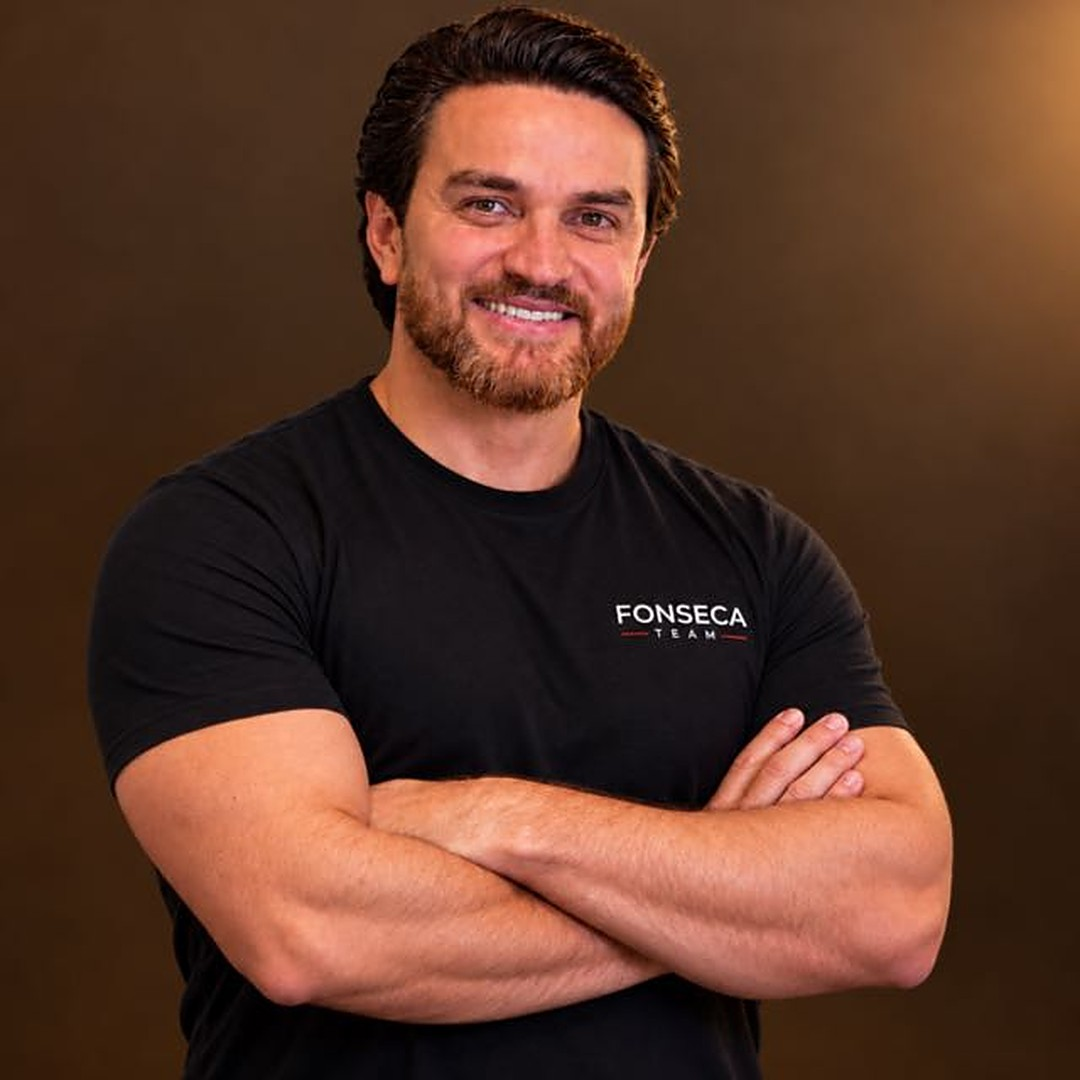
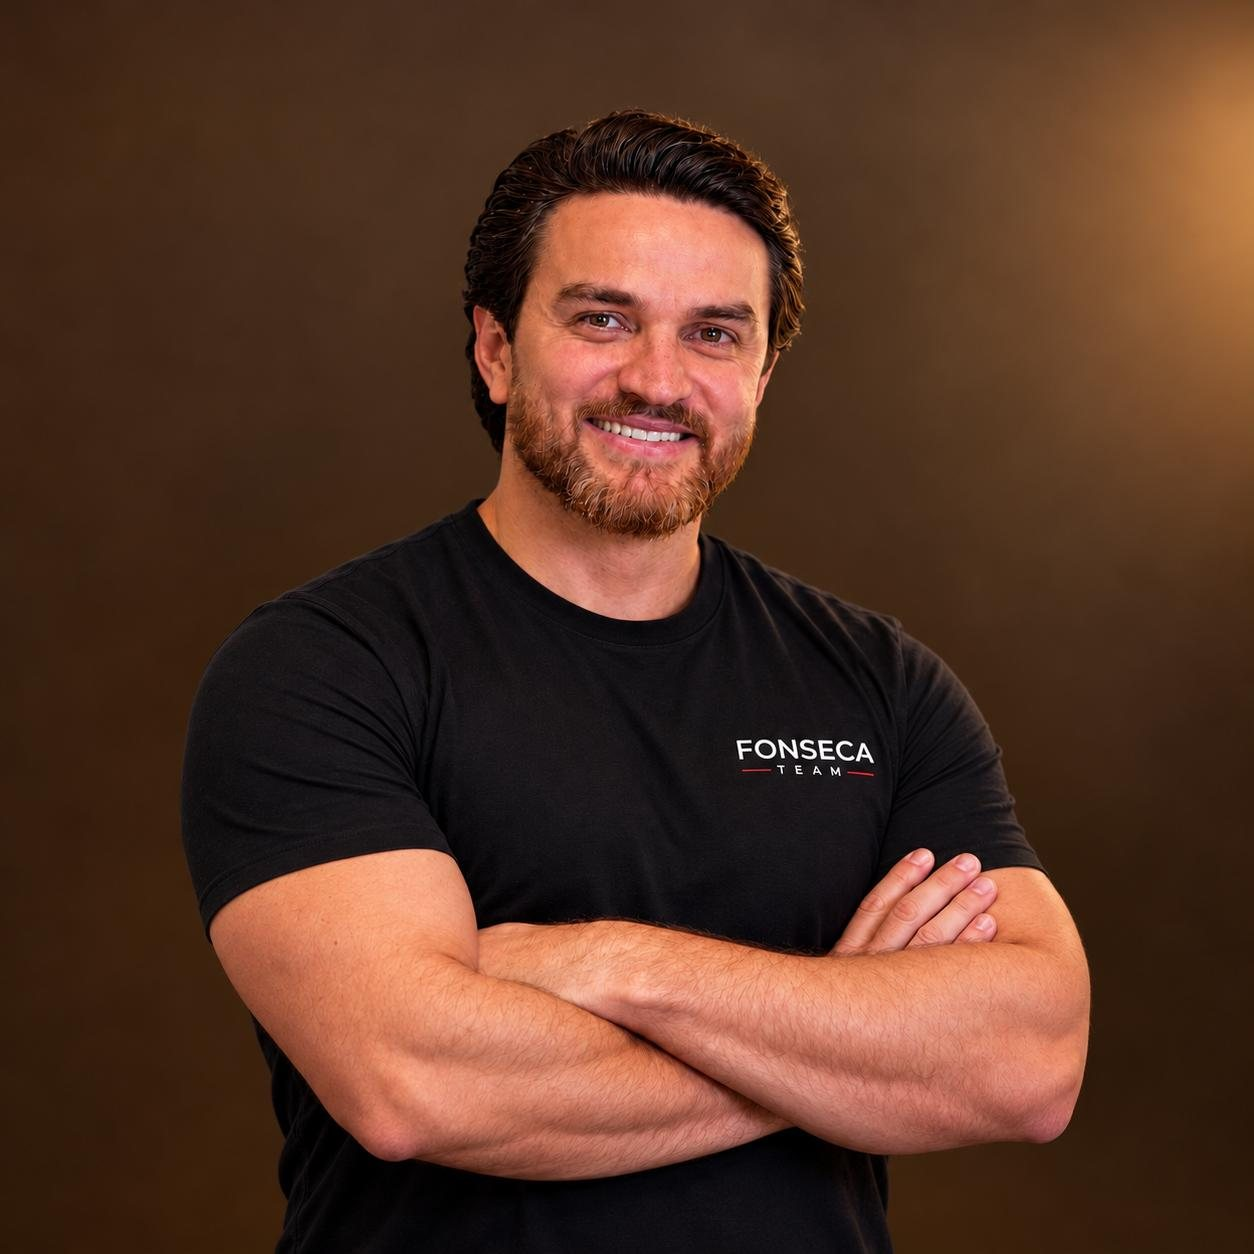
Use the new coach and training photos across the landing page
Studio portrait replaces coach.jpg (hero, chapter 7, og:image) and the
four training shots fill chapters 3-6 and the closing call to action,
each over a small blurred copy of itself on wide screens.

Claude-Session: https://claude.ai/code/session_01KDxtpuvKRh9LbipKp7MBFD

diff --git a/css/style.css b/css/style.css
@@ -155,33 +155,42 @@ html:not(.motion) .scroll-progress { display: none; }
 .media video.is-ready { opacity: 1; }
 .media__fallback { position: absolute; inset: 0; background-size: cover; background-position: center; }
 .media__fallback::before, .media__fallback::after { content: ""; position: absolute; }
-/* Foto do Maicon */
-.media__fallback--coach {
-  background: url("../assets/coach.jpg") right 6% center / auto 92% no-repeat,
-              radial-gradient(60% 70% at 78% 50%, rgba(222, 2, 19, .28), transparent 70%), #0b0606;
+/* Fotos do Maicon: a foto nítida fica à direita, sobre uma versão desfocada dela mesma */
+.media__fallback--photo { background: radial-gradient(60% 70% at 78% 50%, rgba(222, 2, 19, .22), transparent 70%), #0b0606; }
+.media__fallback--photo::before {
+  inset: 0; opacity: .38;
+  background: var(--blur) center / cover no-repeat;
 }
-.media__fallback--center { background-position: center 40%, center, center; background-size: auto 100%, cover, cover; }
+.media__fallback--photo::after {
+  top: 0; right: 6%; height: 100%; aspect-ratio: var(--ar);
+  background: var(--photo) center bottom / cover no-repeat;
+  -webkit-mask-image: linear-gradient(90deg, transparent 0, #000 14%, #000 82%, transparent 100%), linear-gradient(0deg, transparent 0, #000 18%);
+  -webkit-mask-composite: source-in; mask-image: linear-gradient(90deg, transparent 0, #000 14%, #000 82%, transparent 100%), linear-gradient(0deg, transparent 0, #000 18%);
+  mask-composite: intersect;
+}
+.media__fallback--center::after { right: auto; left: 50%; transform: translateX(-50%); }
+.media__fallback--coach { --photo: url("../assets/coach.jpg"); --blur: url("../assets/fotos/coach-fundo.jpg"); --ar: 1 / 1; }
+.media__fallback--postura { --photo: url("../assets/fotos/treino-postura.jpg"); --blur: url("../assets/fotos/treino-postura-fundo.jpg"); --ar: 740 / 1280; }
+.media__fallback--remada-costas { --photo: url("../assets/fotos/treino-remada-costas.jpg"); --blur: url("../assets/fotos/treino-remada-costas-fundo.jpg"); --ar: 726 / 1280; }
+.media__fallback--remada-lado { --photo: url("../assets/fotos/treino-remada-lado.jpg"); --blur: url("../assets/fotos/treino-remada-lado-fundo.jpg"); --ar: 730 / 1280; }
+.media__fallback--puxada { --photo: url("../assets/fotos/treino-puxada.jpg"); --blur: url("../assets/fotos/treino-puxada-fundo.jpg"); --ar: 743 / 1280; }
 /* Fundos da marca: faixas diagonais e número vazado */
-.media__fallback--1, .media__fallback--2, .media__fallback--4, .media__fallback--5, .media__fallback--6 {
+.media__fallback--1, .media__fallback--2 {
   background:
     radial-gradient(55% 60% at 80% 30%, rgba(222, 2, 19, .32), transparent 70%),
     repeating-linear-gradient(115deg, rgba(255, 255, 255, .03) 0 1px, transparent 1px 46px),
     linear-gradient(160deg, #120304 0%, #050505 70%);
 }
-.media__fallback--1::before, .media__fallback--2::before, .media__fallback--4::before, .media__fallback--5::before, .media__fallback--6::before {
+.media__fallback--1::before, .media__fallback--2::before {
   right: -10%; top: 22%; width: 70%; height: 64px; background: linear-gradient(90deg, transparent, rgba(222, 2, 19, .45)); transform: skewX(-38deg);
 }
-.media__fallback--1::after, .media__fallback--2::after, .media__fallback--4::after, .media__fallback--5::after, .media__fallback--6::after {
+.media__fallback--1::after, .media__fallback--2::after {
   right: 4%; bottom: 4%; font: italic 900 clamp(14rem, 38vw, 34rem)/.8 var(--font-display); color: transparent; -webkit-text-stroke: 2px rgba(222, 2, 19, .35);
 }
 .media__fallback--1::after { content: "01"; }
 .media__fallback--2::after { content: "02"; }
-.media__fallback--4::after { content: "04"; }
-.media__fallback--5::after { content: "05"; }
-.media__fallback--6::after { content: "06"; }
 .media__fallback--2::before { top: 58%; width: 55%; }
 .media__fallback.has-poster::before, .media__fallback.has-poster::after { display: none; }
-.media__fallback--5::before { top: 40%; }
 
 /* ---------- 4.2 Abertura ---------- */
 .hero { position: relative; min-height: 100vh; min-height: 100svh; display: flex; align-items: flex-end; padding: calc(var(--header-h) + 40px) 0 120px; isolation: isolate; }
@@ -491,7 +500,7 @@ html.lenis, html.lenis body { height: auto; }
   .footer__grid { grid-template-columns: 1fr 1fr; }
   .footer__grid > div:first-child { grid-column: 1 / -1; }
   .section { padding: 84px 0; }
-  .media__fallback--coach { background-position: 70% center, center, center; background-size: auto 80%, cover, cover; }
+  .media__fallback--photo::after { right: 0; }
   .story__nav { right: 12px; }
   .story__dots button { font-size: 0; gap: 0; }
 }
@@ -501,7 +510,8 @@ html.lenis, html.lenis body { height: auto; }
   .logo--footer img { height: 90px; }
   .hero { padding-bottom: 100px; }
   .hero__shade { background: linear-gradient(0deg, rgba(5, 5, 5, .98) 0%, rgba(5, 5, 5, .8) 55%, rgba(5, 5, 5, .35) 100%); }
-  .media__fallback--coach { background-position: center 12%, center, center; background-size: auto 62%, cover, cover; }
+  .media__fallback--photo::before { display: none; }
+  .media__fallback--photo::after { inset: 0; height: auto; aspect-ratio: auto; transform: none; background-position: center 20%; -webkit-mask-image: linear-gradient(0deg, transparent 0, #000 30%); mask-image: linear-gradient(0deg, transparent 0, #000 30%); }
   .hero__actions .btn { width: 100%; }
   .hero__facts { flex-wrap: nowrap; }
   .hero__facts li { flex: 1 1 0; min-width: 0; padding-right: 10px; margin-right: 10px; }
@@ -510,7 +520,7 @@ html.lenis, html.lenis body { height: auto; }
   .scroll-hint { display: none; }
   .plans { grid-template-columns: 1fr; }
   .chapter { padding: 110px 44px 110px 16px; }
-  .story__shade { background: linear-gradient(0deg, rgba(5, 5, 5, .95) 0%, rgba(5, 5, 5, .7) 60%, rgba(5, 5, 5, .5) 100%); }
+  .story__shade { background: linear-gradient(0deg, rgba(5, 5, 5, .95) 0%, rgba(5, 5, 5, .72) 50%, rgba(5, 5, 5, .3) 100%); }
   .calc__grid { grid-template-columns: 1fr 1fr; }
   .field-row { grid-template-columns: 1fr; gap: 0; }
   .card { padding: 22px; }
@@ -518,5 +528,6 @@ html.lenis, html.lenis body { height: auto; }
   .pill::before, .eyebrow::before, .section__head:not(.section__head--left) .pill::after { width: 22px; }
   .marquee span { font-size: 1.2rem; }
   .cta-final { padding: 110px 0; }
+  .cta-final__shade { background: radial-gradient(80% 60% at 50% 45%, rgba(5, 5, 5, .72), rgba(5, 5, 5, .94)), linear-gradient(180deg, var(--bg), transparent 25%, transparent 75%, var(--bg)); }
   .cta-final .hero__actions .btn { width: 100%; }
 }

diff --git a/index.html b/index.html
@@ -70,7 +70,7 @@
     <!-- 4.2 Abertura -->
     <section class="hero" aria-labelledby="heroTitle">
       <div class="hero__media media" data-story="0" aria-hidden="true">
-        <div class="media__fallback media__fallback--coach"></div>
+        <div class="media__fallback media__fallback--photo media__fallback--coach"></div>
       </div>
       <div class="hero__shade" aria-hidden="true"></div>
       <div class="container hero__inner">
@@ -105,11 +105,11 @@
       <div class="story__stage" aria-hidden="true">
         <div class="story__layer media is-active" data-story="1"><div class="media__fallback media__fallback--1"></div></div>
         <div class="story__layer media" data-story="2"><div class="media__fallback media__fallback--2"></div></div>
-        <div class="story__layer media" data-story="3"><div class="media__fallback media__fallback--coach"></div></div>
-        <div class="story__layer media" data-story="4"><div class="media__fallback media__fallback--4"></div></div>
-        <div class="story__layer media" data-story="5"><div class="media__fallback media__fallback--5"></div></div>
-        <div class="story__layer media" data-story="6"><div class="media__fallback media__fallback--6"></div></div>
-        <div class="story__layer media" data-story="7"><div class="media__fallback media__fallback--coach media__fallback--center"></div></div>
+        <div class="story__layer media" data-story="3"><div class="media__fallback media__fallback--photo media__fallback--postura"></div></div>
+        <div class="story__layer media" data-story="4"><div class="media__fallback media__fallback--photo media__fallback--remada-costas"></div></div>
+        <div class="story__layer media" data-story="5"><div class="media__fallback media__fallback--photo media__fallback--remada-lado"></div></div>
+        <div class="story__layer media" data-story="6"><div class="media__fallback media__fallback--photo media__fallback--puxada"></div></div>
+        <div class="story__layer media" data-story="7"><div class="media__fallback media__fallback--photo media__fallback--coach"></div></div>
         <div class="story__shade"></div>
       </div>
 
@@ -449,7 +449,7 @@
     <!-- 4.10 Chamada final -->
     <section class="cta-final">
       <div class="cta-final__media media" data-story="7" aria-hidden="true">
-        <div class="media__fallback media__fallback--coach media__fallback--center"></div>
+        <div class="media__fallback media__fallback--photo media__fallback--remada-costas media__fallback--center"></div>
       </div>
       <div class="cta-final__shade" aria-hidden="true"></div>
       <div class="container cta-final__inner">

diff --git a/README.md b/README.md
@@ -76,7 +76,8 @@ São 8 vídeos sem som: `story-00` (fundo da abertura) e `story-01` a `story-07`
 - Use MP4 (H.264) **sem áudio**, de 6 a 12 segundos.
 - Para computador: 1920×1080, de 3 a 6 MB. Para celular (opcional): 1080×1920, de 2 a 4 MB.
 - O `poster` é a capa mostrada antes do vídeo começar e para quem pede menos movimento.
-- Sem vídeo, o capítulo usa um fundo da marca (ou a foto do Maicon nos capítulos 3 e 7).
+- Sem vídeo, cada parte mostra uma foto: o retrato do Maicon (`assets/coach.jpg`) na abertura e no capítulo 7, e as fotos de treino de `assets/fotos/` nos capítulos 3 a 6 e na chamada final. Os capítulos 1 e 2 usam o fundo da marca.
+- Para trocar uma foto, substitua o arquivo mantendo o mesmo nome. O arquivo `-fundo.jpg` é uma versão pequena e desfocada usada atrás da foto no computador.
 
 ## Outros ajustes em `js/config.js`
 
